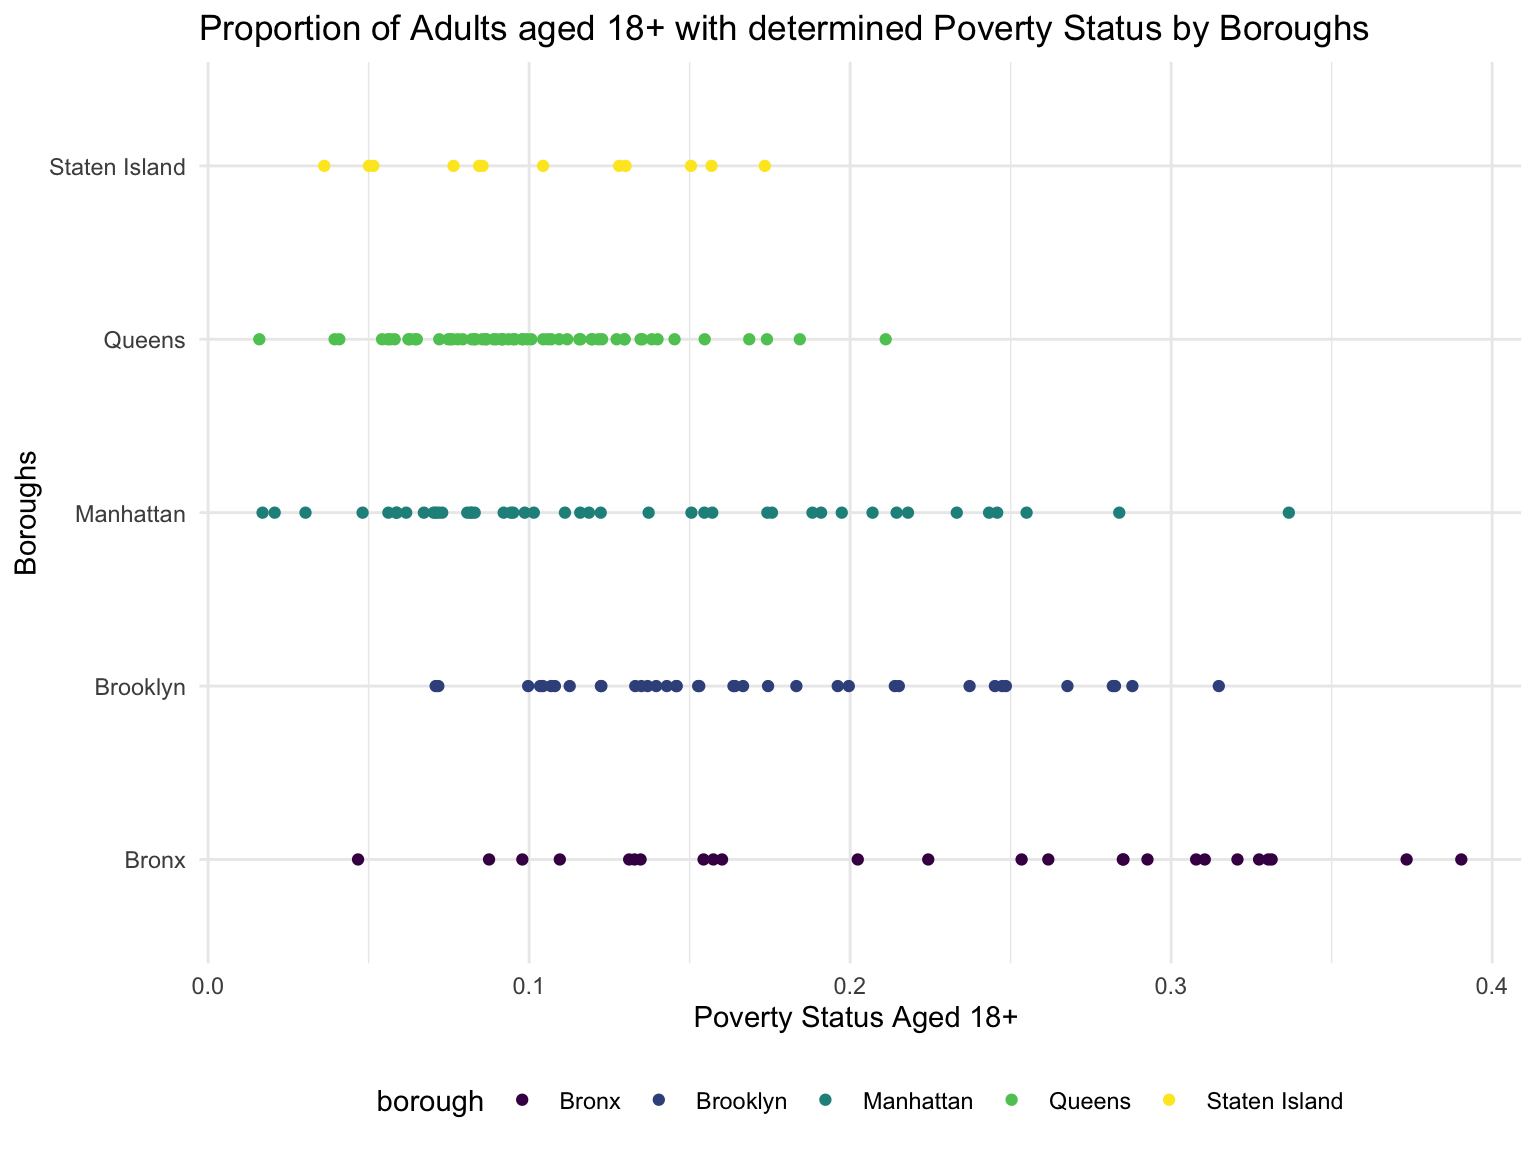
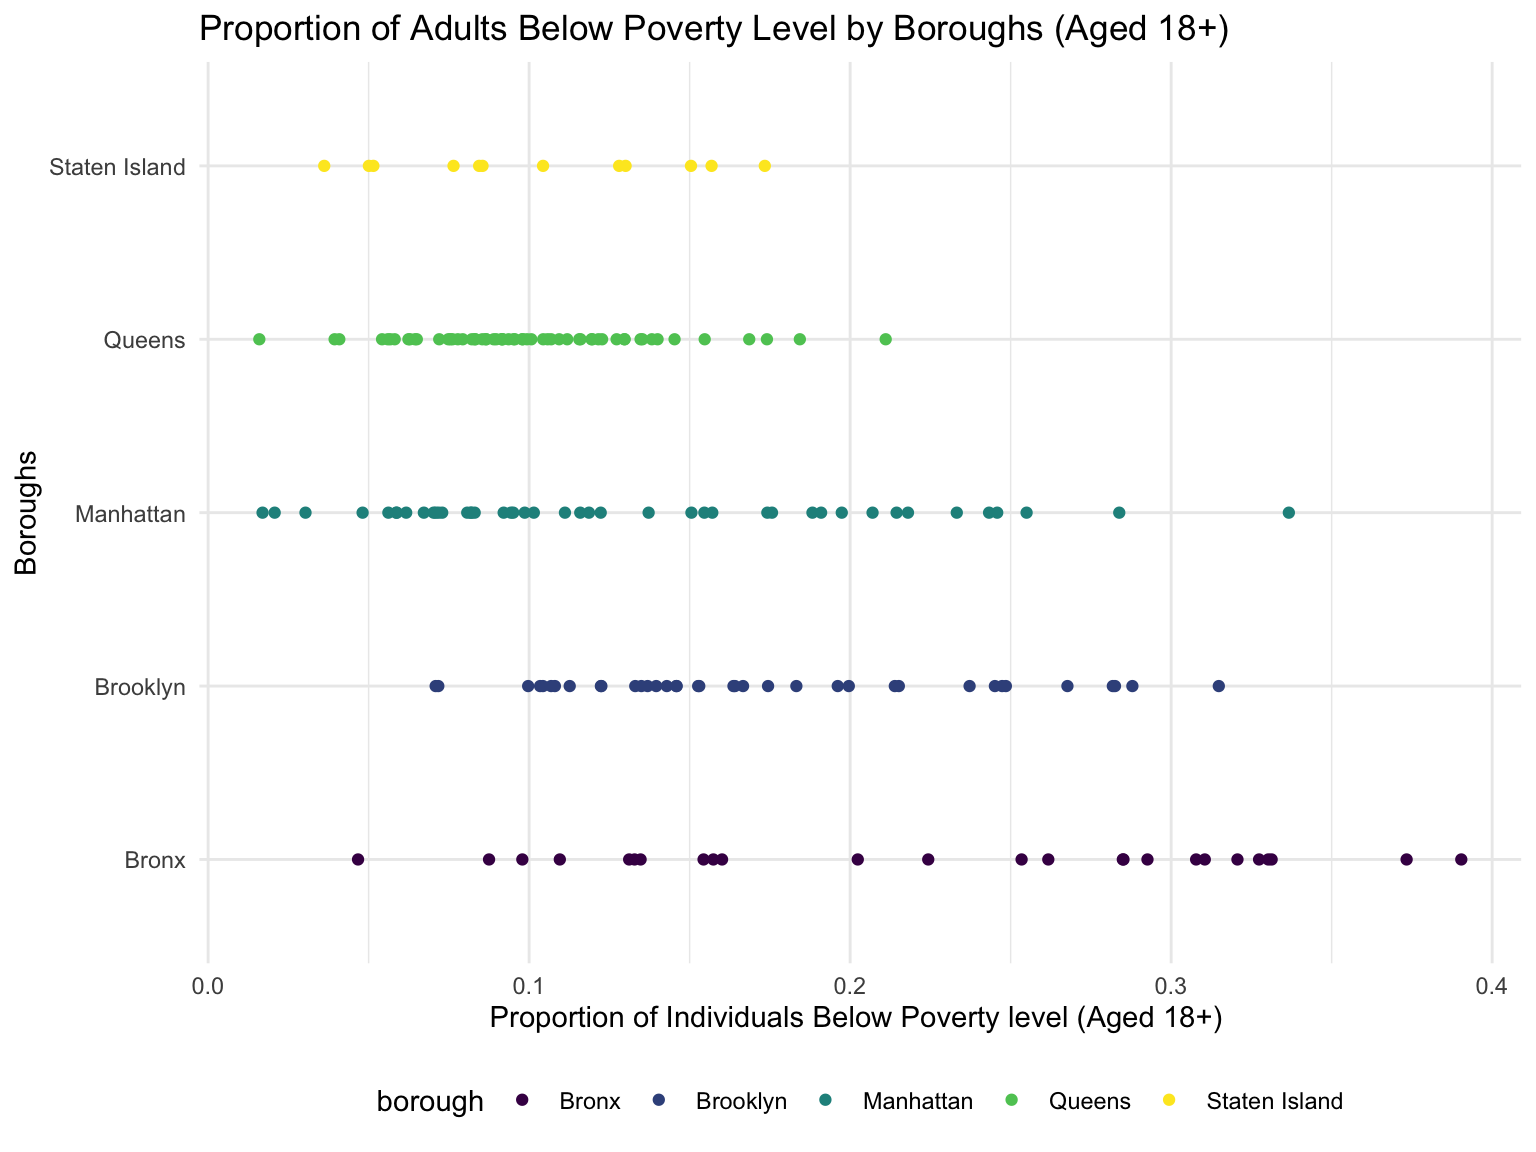
changed sizes

Changed region(s): [[0.3438, 0.0, 0.9062, 0.0625], [0.3125, 0.875, 0.7812, 0.9062]]

diff --git a/Exploratory_Analysis.html b/Exploratory_Analysis.html
@@ -375,16 +375,16 @@ div.tocify {
 
 
 <div id="general-vaccine-data-in-nyc-by-zipcode-and-boroughs"
-class="section level2">
-<h2><strong>General Vaccine Data in NYC by Zipcode and
-Boroughs</strong></h2>
+class="section level3">
+<h3><strong>General Vaccine Data in NYC by Zipcode and
+Boroughs</strong></h3>
 <p>We began with a preliminary data exploration of the proportion of
 individuals who were fully vaccinated and received boosters across
 different zipcodes in each borough by 3.09.22 (90 days after the booster
 approval).</p>
 <div id="fully-vaccinated-individuals-by-zipcode-and-boroughs"
-class="section level3">
-<h3>Fully Vaccinated Individuals by Zipcode and Boroughs:</h3>
+class="section level4">
+<h4>Fully Vaccinated Individuals by Zipcode and Boroughs:</h4>
 <p>Fully Vaccinated: The graph below shows the proportion of people
 fully vaccinated (y-axis) in each zipcode (x-axis). The colors indicate
 the borough. From this graph we note a few observations:</p>
@@ -404,9 +404,9 @@ fully vaccinated more than once.</p></li>
 </div>
 <div
 id="additionalbooster-vaccinated-individuals-by-zipcode-and-boroughs"
-class="section level3">
-<h3>Additional/Booster Vaccinated Individuals by Zipcode and
-Boroughs:</h3>
+class="section level4">
+<h4>Additional/Booster Vaccinated Individuals by Zipcode and
+Boroughs:</h4>
 <p>Boosted: The graph below shows the proportion of people fully boosted
 (y-axis) in each zip code (x-axis) with colors indicating the borough.
 This data was collected as of 3.09.22, 90 days after the booster was
@@ -417,81 +417,78 @@ individuals who received a vaccine across all boroughs ranged from
 fewer proportion of individuals who received the booster.</p>
 <p><img src="Exploratory_Analysis_files/figure-html/unnamed-chunk-3-1.png" width="90%" /></p>
 </div>
-</div>
 <div
 id="we-then-sought-to-explore-how-vaccination-and-booster-trends-varied-across-different-demographic-characteristics."
-class="section level2">
-<h2><em>We then sought to explore how vaccination and booster trends
-varied across different demographic characteristics.</em></h2>
+class="section level4">
+<h4>We then sought to explore how vaccination and booster trends varied
+across different demographic characteristics.</h4>
+</div>
 </div>
 <div
 id="the-education-attainment-in-nyc-by-vaccination-status-and-boroughs"
-class="section level2">
-<h2><strong>1.The Education Attainment in NYC by Vaccination Status and
-Boroughs</strong></h2>
-<div id="fully-vaccinated-individuals-by-education-status-and-age"
 class="section level3">
-<h3>Fully Vaccinated Individuals by Education Status and Age</h3>
+<h3><strong>1.The Education Attainment in NYC by Vaccination Status and
+Boroughs</strong></h3>
+<div id="fully-vaccinated-individuals-by-education-status-and-age"
+class="section level4">
+<h4>Fully Vaccinated Individuals by Education Status and Age</h4>
 <p><img src="Exploratory_Analysis_files/figure-html/unnamed-chunk-5-1.png" width="90%" /></p>
 </div>
 <div id="additionalbooster-individuals-by-education-status-and-age"
-class="section level3">
-<h3>Additional/Booster Individuals by Education Status and Age</h3>
+class="section level4">
+<h4>Additional/Booster Individuals by Education Status and Age</h4>
 <p><img src="Exploratory_Analysis_files/figure-html/unnamed-chunk-6-1.png" width="90%" /></p>
 </div>
 <div id="fully-vaccinated-individuals-by-education-status-and-boroughs"
-class="section level3">
-<h3>Fully Vaccinated Individuals by Education Status and Boroughs</h3>
+class="section level4">
+<h4>Fully Vaccinated Individuals by Education Status and Boroughs</h4>
 <p><img src="Exploratory_Analysis_files/figure-html/unnamed-chunk-7-1.png" width="90%" /></p>
 </div>
 <div id="additionalbooster-individuals-by-education-status-and-boroughs"
-class="section level3">
-<h3>Additional/Booster Individuals by Education Status and Boroughs</h3>
+class="section level4">
+<h4>Additional/Booster Individuals by Education Status and Boroughs</h4>
 <p><img src="Exploratory_Analysis_files/figure-html/unnamed-chunk-8-1.png" width="90%" /></p>
 </div>
 </div>
 <div id="the-median-income-vs-vaccination-and-booster-coverage"
-class="section level2">
-<h2><strong>2. The Median Income vs Vaccination and Booster
-Coverage</strong></h2>
+class="section level3">
+<h3><strong>2. The Median Income vs Vaccination and Booster
+Coverage</strong></h3>
 <div
 id="fully-vaccinated-individuals-by-median-household-income-and-boroughs"
-class="section level3">
-<h3>Fully Vaccinated Individuals by Median Household Income and
-Boroughs</h3>
+class="section level4">
+<h4>Fully Vaccinated Individuals by Median Household Income and
+Boroughs</h4>
 <p><img src="Exploratory_Analysis_files/figure-html/unnamed-chunk-10-1.png" width="90%" /></p>
 </div>
 <div
 id="additionalbooster-vaccinated-individuals-by-median-household-income-and-boroughs"
-class="section level3">
-<h3>Additional/Booster Vaccinated Individuals by Median Household Income
-and Boroughs</h3>
+class="section level4">
+<h4>Additional/Booster Vaccinated Individuals by Median Household Income
+and Boroughs</h4>
 <p><img src="Exploratory_Analysis_files/figure-html/unnamed-chunk-11-1.png" width="90%" /></p>
 </div>
 </div>
-<div id="poverty-status-vs-vaccination-and-booster-coverage"
-class="section level2">
-<h2><strong>3. Poverty Status vs Vaccination and Booster
-Coverage</strong></h2>
 <div
-id="fully-vaccinated-individuals-by-determined-poverty-status-aged-18"
+id="proportion-of-individuals-below-poverty-level-vs-vaccination-and-booster-coverage"
 class="section level3">
-<h3>Fully Vaccinated Individuals by determined Poverty Status Aged
-18+</h3>
+<h3><strong>3. Proportion of Individuals Below Poverty Level vs
+Vaccination and Booster Coverage</strong></h3>
+<div id="fully-vaccinated-individuals-below-poverty-level-aged-18"
+class="section level4">
+<h4>Fully Vaccinated Individuals Below Poverty Level (Aged 18+)</h4>
 <p><img src="Exploratory_Analysis_files/figure-html/unnamed-chunk-17-1.png" width="90%" /></p>
 </div>
 <div
-id="additionalbooster-vaccinated-individuals-by-determined-poverty-status-aged-18"
-class="section level3">
-<h3>Additional/Booster Vaccinated Individuals by determined Poverty
-Status Aged 18+</h3>
+id="additionalbooster-vaccinated-individuals-below-poverty-level-aged-18"
+class="section level4">
+<h4>Additional/Booster Vaccinated Individuals Below Poverty Level (Aged
+18+)</h4>
 <p><img src="Exploratory_Analysis_files/figure-html/unnamed-chunk-18-1.png" width="90%" /></p>
 </div>
-<div
-id="proportion-of-adults-aged-18-with-determined-poverty-status-by-boroughs"
-class="section level3">
-<h3>Proportion of Adults aged 18+ with determined Poverty Status by
-Boroughs</h3>
+<div id="proportion-of-adults-below-poverty-level-by-boroughs-aged-18"
+class="section level4">
+<h4>Proportion of Adults Below Poverty Level by Boroughs (Aged 18+)</h4>
 <p><img src="Exploratory_Analysis_files/figure-html/unnamed-chunk-19-1.png" width="90%" /></p>
 </div>
 </div>

diff --git a/Project_Report.html b/Project_Report.html
@@ -502,13 +502,14 @@ picture.</p>
 <h2><strong>Data</strong></h2>
 <div id="data-sources" class="section level3">
 <h3><em>Data Sources</em></h3>
-<p>We used <a
+<p>We used city vaccination and booster data from <a
 href="https://www.nyc.gov/site/doh/covid/covid-19-data.page">NYC
 Department of Health Coronavirus Data website</a> and <a
 href="https://github.com/nychealth/coronavirus-data">GitHub Data
 Repository</a>:This repository contains information on COVID-19
 vaccination and booster reporting across the five boroughs, updated
-daily, aggregated at modified zipcode tabulation areas.</p>
+daily, aggregated at modified zipcode tabulation areas. This data is
+updated daily.</p>
 <p>Details about MODZTA can be found <a
 href="https://nychealth.github.io/covid-maps/modzcta-geo/about.html">here</a>
 and the <a
